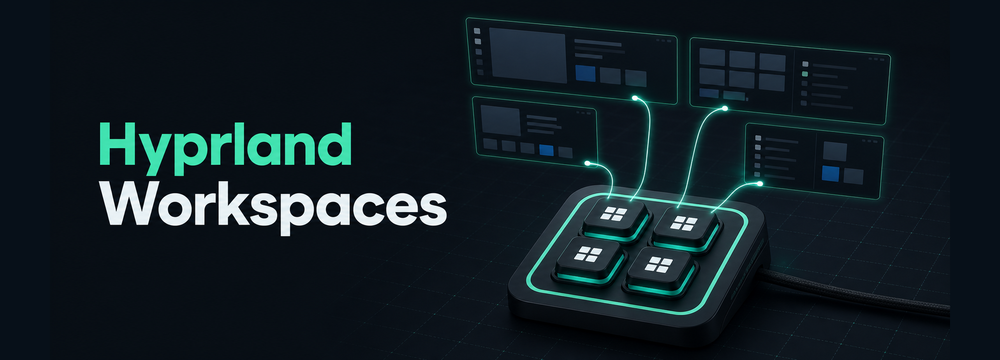
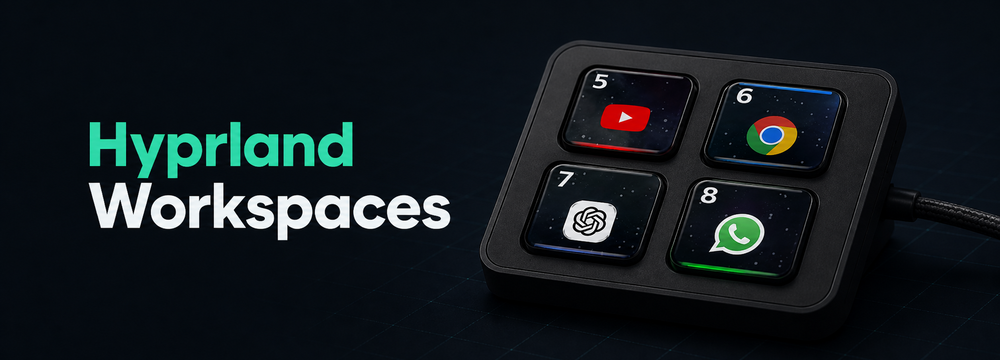
Make plugin presentation reflect real workspace keys

Changed region(s): [[0.062, 0.0306, 1.0, 0.9778], [0.341, 0.3361, 0.372, 0.3667]]

diff --git a/README.md b/README.md
@@ -2,9 +2,10 @@
 
 # Hyprland Workspaces for StreamController
 
-Event-driven Stream Deck workspace keys for current Hyprland. Each key switches to one numeric or
-named workspace and shows whether it is focused, visible on another monitor, or inactive, together
-with the applications currently present there.
+See your Hyprland workspaces at a glance—right on your Stream Deck. Each key shows the apps currently
+open on that workspace with live-updating icons and indicates whether the workspace is focused,
+visible on another monitor, or inactive. Press a key to switch there, or hold it to move the focused
+window with you.
 
 ## Features
 
